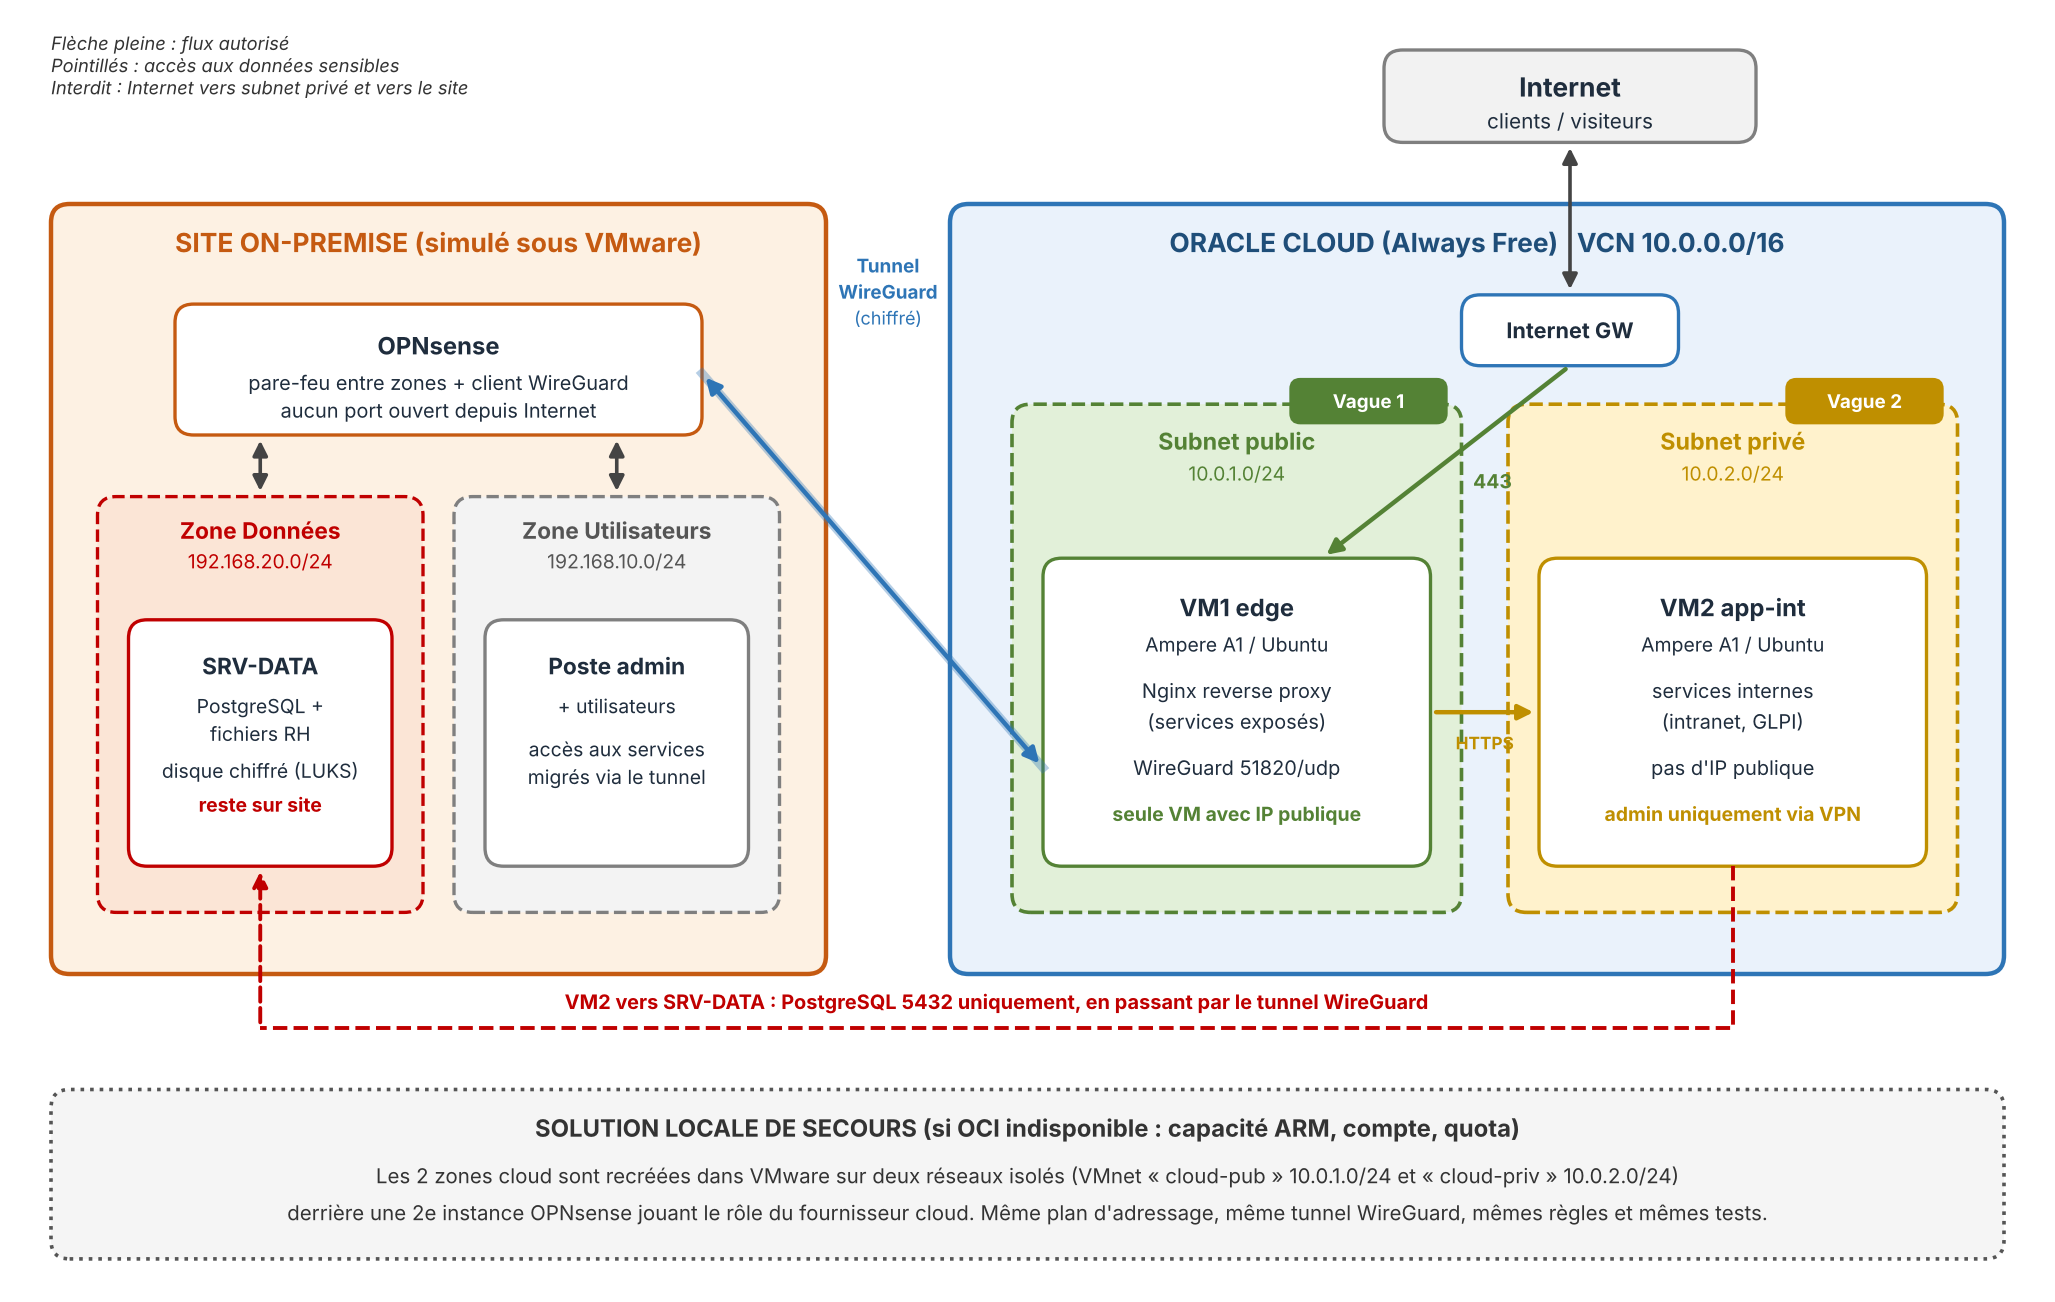
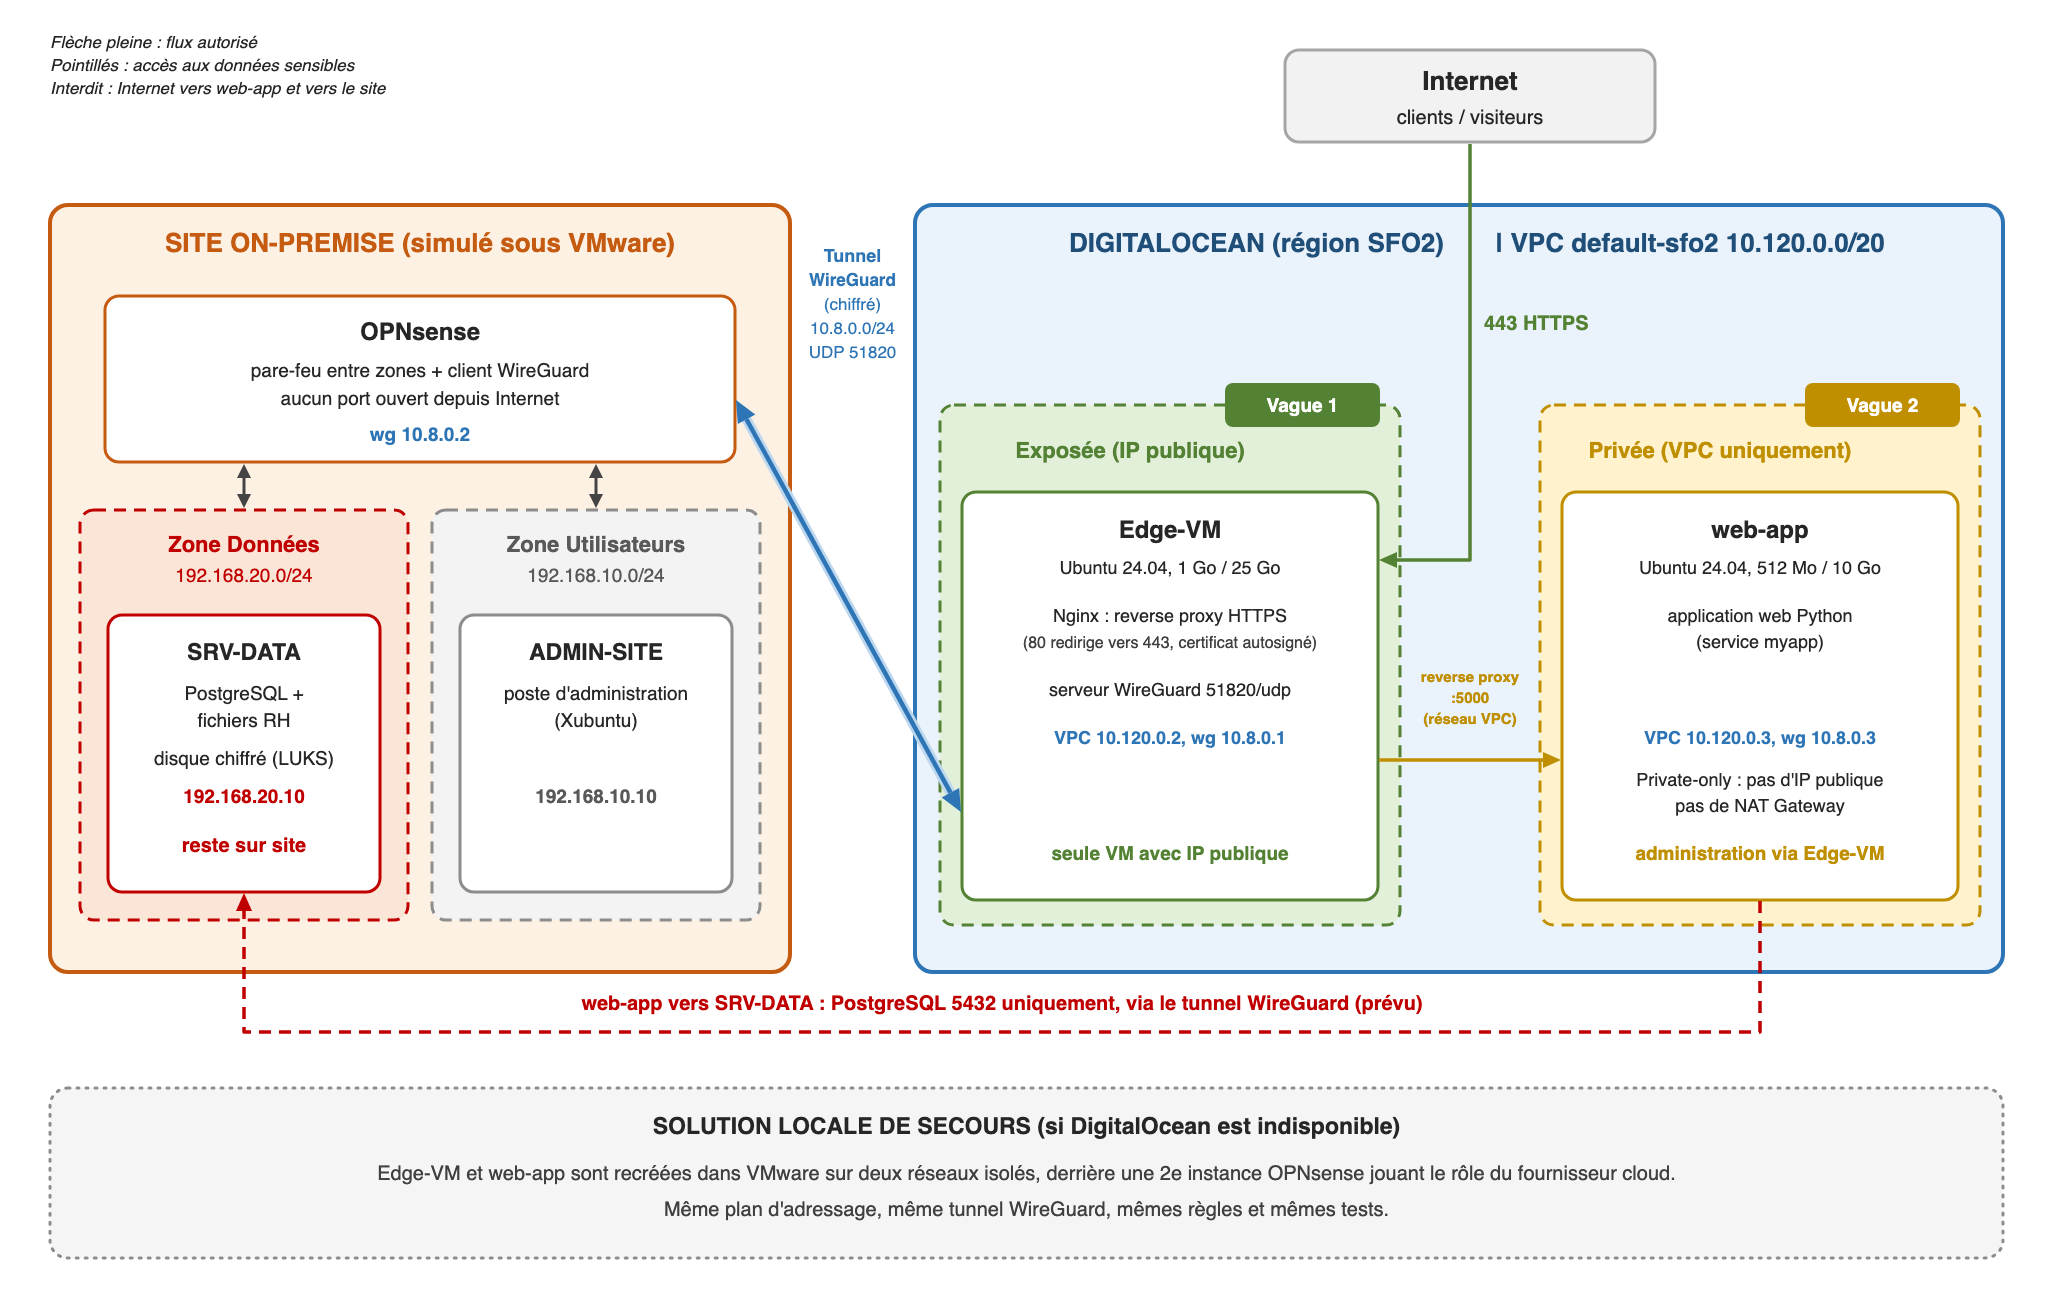
Passage à DigitalOcean : README reconstruit et schéma d'architecture aligné sur l'adressage réel

Changed region(s): [[0.0312, 0.0308, 0.999, 0.8], [0.1561, 0.8308, 0.8429, 0.9538], [0.0312, 0.0308, 0.2185, 0.0923]]

diff --git a/README.md b/README.md
@@ -1,73 +1,81 @@
 # Migration sécurisée vers une architecture Cloud hybride
 
 Projet du module M352 "Sécurité de la virtualisation et du Cloud Computing" (ENSIASD), groupe G5, sous-groupe A, sujet 6.
-Migration progressive d'un SI local vers Oracle Cloud, avec les données sensibles gardées sur site et un tunnel WireGuard chiffré entre les deux.
+Migration progressive d'un SI local vers le cloud public (DigitalOcean), avec les données sensibles gardées sur site et un tunnel WireGuard chiffré entre les deux.
 
-## Architecture cible
+## Changement de fournisseur cloud
 
-![Architecture](docs/architecture.png)
+L'architecture validée en Phase 2 était prévue sur Oracle Cloud (Always Free). La partie cloud est désormais déployée sur **DigitalOcean** (région SFO2), avec le même principe : une machine exposée, une machine interne sans IP publique, et le site on-premise relié par WireGuard. Sur Oracle Cloud, VM1 avait été créée mais la création de VM2 était bloquée par le manque de capacité Ampere A1 ; les captures de cette première étape restent dans [preuves/1-machines/](preuves/1-machines/).
 
-- Côté Oracle Cloud : un VCN avec un sous-réseau public (VM1) et un sous-réseau privé (VM2).
-- Côté site (VMware) : OPNsense protège la zone Utilisateurs (ADMIN-SITE) et la zone Données (SRV-DATA).
-- Le tunnel WireGuard (réseau `10.8.0.0/24`, serveur VM1 `10.8.0.1`, client OPNsense `10.8.0.2`, UDP 51820) est le seul lien entre le site et le cloud.
-- Ports ouverts sur Internet : 443 (HTTPS, le port 80 redirige vers 443) et 51820/udp. SSH uniquement depuis l'IP de l'administrateur.
+## Architecture actuelle
 
-Le schéma montre les plages prévues au départ. Les plages réellement utilisées sont celles du tableau ci-dessous.
+![Architecture hybride DigitalOcean](docs/architecture.png)
+
+Source modifiable : [docs/architecture_hybride_digitalocean.svg](docs/architecture_hybride_digitalocean.svg).
+
+- **Seule Edge-VM est exposée** : elle reçoit le trafic HTTPS et le relaie vers web-app par le réseau privé du VPC.
+- **web-app n'a pas d'IP publique** ("Private-only") et pas de NAT Gateway : elle ne peut ni être jointe depuis Internet ni y sortir directement. Son administration passe par Edge-VM.
+- **Le tunnel WireGuard** (`10.8.0.0/24`, UDP 51820) relie le cloud et le site ; Edge-VM est le serveur.
+- **Les données sensibles restent sur site**, dans la zone Données derrière OPNsense.
+
+Le schéma validé en Phase 2 (version Oracle Cloud, adressage prévu à l'époque) reste disponible pour l'historique : [docs/architecture-v1-oci.png](docs/architecture-v1-oci.png).
 
 ## Machines
 
-| Nom | Emplacement | Adressage | Rôle | État |
-|-----|-------------|-----------|------|------|
-| VM1 edge (`ocinstance`) | Oracle, sous-réseau public | `10.0.0.0/24` | Nginx + serveur WireGuard, seule IP publique | En service |
-| VM2 app-int | Oracle, sous-réseau privé | `10.0.1.0/24` | Intranet, pas d'IP publique | Bloquée (capacité Ampere A1) |
-| OPNsense | VMware | LAN `192.168.10.1`, Données `192.168.20.1` | Pare-feu du site + client WireGuard | En service |
+| Machine | Emplacement | Adressage | Rôle | État |
+|---------|-------------|-----------|------|------|
+| Edge-VM (VM1) | DigitalOcean, 1 Go / 25 Go | IP publique, VPC `10.120.0.2`, wg `10.8.0.1` | Nginx HTTPS (certificat autosigné), reverse proxy, serveur WireGuard | En service |
+| web-app (VM2) | DigitalOcean, 512 Mo / 10 Go | VPC `10.120.0.3`, wg `10.8.0.3` | Application web Python (service systemd `myapp`) | En service |
+| OPNsense | VMware | LAN `192.168.10.1`, Données `192.168.20.1`, wg `10.8.0.2` | Pare-feu du site, client WireGuard | En service, raccordement au tunnel à valider |
 | ADMIN-SITE | VMware, zone Utilisateurs | `192.168.10.10` | Poste d'administration (Xubuntu) | En service |
 | SRV-DATA | VMware, zone Données | `192.168.20.10` | PostgreSQL, disque chiffré LUKS | À installer |
 
 ## Plan de migration
 
-1. Vague 1 : les services exposés passent sur VM1.
-2. Vague 2 : les services internes passent sur VM2.
-3. Vague 3 : les données sensibles restent sur site, accessibles uniquement depuis VM2 via le tunnel (port 5432).
+1. **Vague 1** : les services exposés passent sur Edge-VM.
+2. **Vague 2** : les services internes passent sur web-app.
+3. **Vague 3** : les données sensibles restent sur site, accessibles uniquement depuis web-app via le tunnel (port 5432).
 
-Solution de secours : si Oracle Cloud est indisponible, VM1 et VM2 sont recréées dans VMware.
+Solution de secours : si le cloud est indisponible, Edge-VM et web-app sont recréées dans VMware avec le même plan d'adressage.
 
 ## Avancement
 
-Point au 24 novembre 2026. Détails dans [docs/avancement.md](docs/avancement.md), captures dans [preuves/](preuves/README.md).
-
-| Partie | État |
-|--------|------|
-| Machines | VM1 OCI et site VMware (OPNsense, ADMIN-SITE) en service ; VM2 bloquée par la capacité OCI |
-| Réseau | Sous-réseaux OCI et réseaux VMware en place ; ADMIN-SITE atteint OPNsense |
-| WireGuard | Serveur et pairs configurés sur un environnement de test, à porter sur OCI |
-| Données | SRV-DATA à installer |
-| Services exposés | Nginx en HTTPS (certificat autosigné) devant une application web Python, sur l'environnement de test |
+| Partie | État | Preuves |
+|--------|------|---------|
+| Machines cloud | Edge-VM et web-app actives sur DigitalOcean | [preuves/digitalOcean/](preuves/digitalOcean/) |
+| Site VMware | OPNsense et ADMIN-SITE en service ; SRV-DATA à installer | [preuves/1-machines/](preuves/1-machines/), [preuves/2-reseau/](preuves/2-reseau/) |
+| Réseau | VPC privé entre les deux machines (ping Edge-VM vers web-app sans perte) ; zones Utilisateurs et Données sur le site | [preuves/digitalOcean/](preuves/digitalOcean/), [preuves/5-tests/](preuves/5-tests/) |
+| WireGuard | Serveur sur Edge-VM avec 2 pairs (OPNsense, web-app) ; web-app connectée | [preuves/3-wireguard/](preuves/3-wireguard/), [configs/wg-server.conf](configs/wg-server.conf) |
+| Services exposés | Nginx : redirection 80 vers 443, reverse proxy vers web-app | [preuves/6-services/](preuves/6-services/), [configs/nginx.conf](configs/nginx.conf) |
+| Données | SRV-DATA à installer | |
+| Audit Lynis | Avant durcissement : Edge-VM **59** (263 tests), web-app **62** (255 tests) ; audit "après" à faire | [tests/lynis/avant/](tests/lynis/avant/) |
 
 ## Contenu du dépôt
 
 | Dossier | Contenu |
 |---------|---------|
-| [configs/](configs/) | Configurations Nginx, WireGuard, service systemd et données fictives |
-| [docs/](docs/) | Schéma d'architecture, avancement, procédures WireGuard |
-| [preuves/](preuves/README.md) | Captures d'écran rangées par partie |
-| [tests/](tests/tests.md) | Tests à réaliser et résultats attendus |
+| [configs/](configs/) | Nginx (`nginx.conf`), WireGuard (`wg-server.conf`, `wg-client.conf`, `vm-web-wireguard.conf`), service systemd (`myAppService`), données fictives (`donnees-fictives.sql`) |
+| [docs/](docs/) | Schéma d'architecture actuel (PNG + source SVG), schéma V1 Oracle, avancement, procédures WireGuard |
+| [preuves/](preuves/README.md) | Captures rangées par partie, et [documentation de l'infrastructure DigitalOcean](preuves/digitalOcean/Documentation%20%E2%80%93%20Infrastructure%20DigitalOcean%20%28Edge-VM%20%2B%20web-app%29.md) |
+| [tests/](tests/) | Tests à réaliser ([tests.md](tests/tests.md)) et audits Lynis ([lynis/](tests/lynis/)) |
+
+Fichiers de la première étape Oracle Cloud, conservés pour l'historique : [configs/nginx-vm1.conf](configs/nginx-vm1.conf), [configs/wg0-vm1.conf.example](configs/wg0-vm1.conf.example), [docs/wireguard-ocinstance.md](docs/wireguard-ocinstance.md).
 
 ## Technologies
 
-Oracle Cloud, VMware, OPNsense, WireGuard, Nginx, PostgreSQL, LUKS.
+DigitalOcean, VMware, OPNsense, WireGuard, Nginx, Python (systemd), PostgreSQL, LUKS, Lynis.
 
 ## Équipe
 
 | Membre | Rôle |
 |--------|------|
 | Haitam BELCAIDA (coordinateur) | Coordination et architecture, choix des outils et technologies, rapport, présentation, dépôt Git |
-| Mohammed ELFADLAOUI | Création des VM (Oracle Cloud et VMware) |
+| Mohammed ELFADLAOUI | Création des VM (cloud et VMware) |
 | Issam ELBAY | PostgreSQL et chiffrement LUKS sur SRV-DATA |
-| Marouane BEKKAOUI | VCN, sous-réseaux, Security Lists, règles OPNsense |
+| Marouane BEKKAOUI | Réseau cloud, règles de filtrage, règles OPNsense |
 | Abderemane ABDALLAH | Tunnel WireGuard |
 | Hajar LAQLIB | Tests et preuves |
 
 ## Sécurité du dépôt
 
-Dépôt public : aucune clé privée, aucune IP publique réelle, uniquement des valeurs fictives (`<PRIVATE_KEY>`, `<VM1_PUBLIC_IP>`, etc.).
+Dépôt public : aucune clé privée ni mot de passe. Les adresses IP publiques doivent être remplacées par des valeurs fictives (`<EDGE_PUBLIC_IP>`) et floutées dans les captures.
